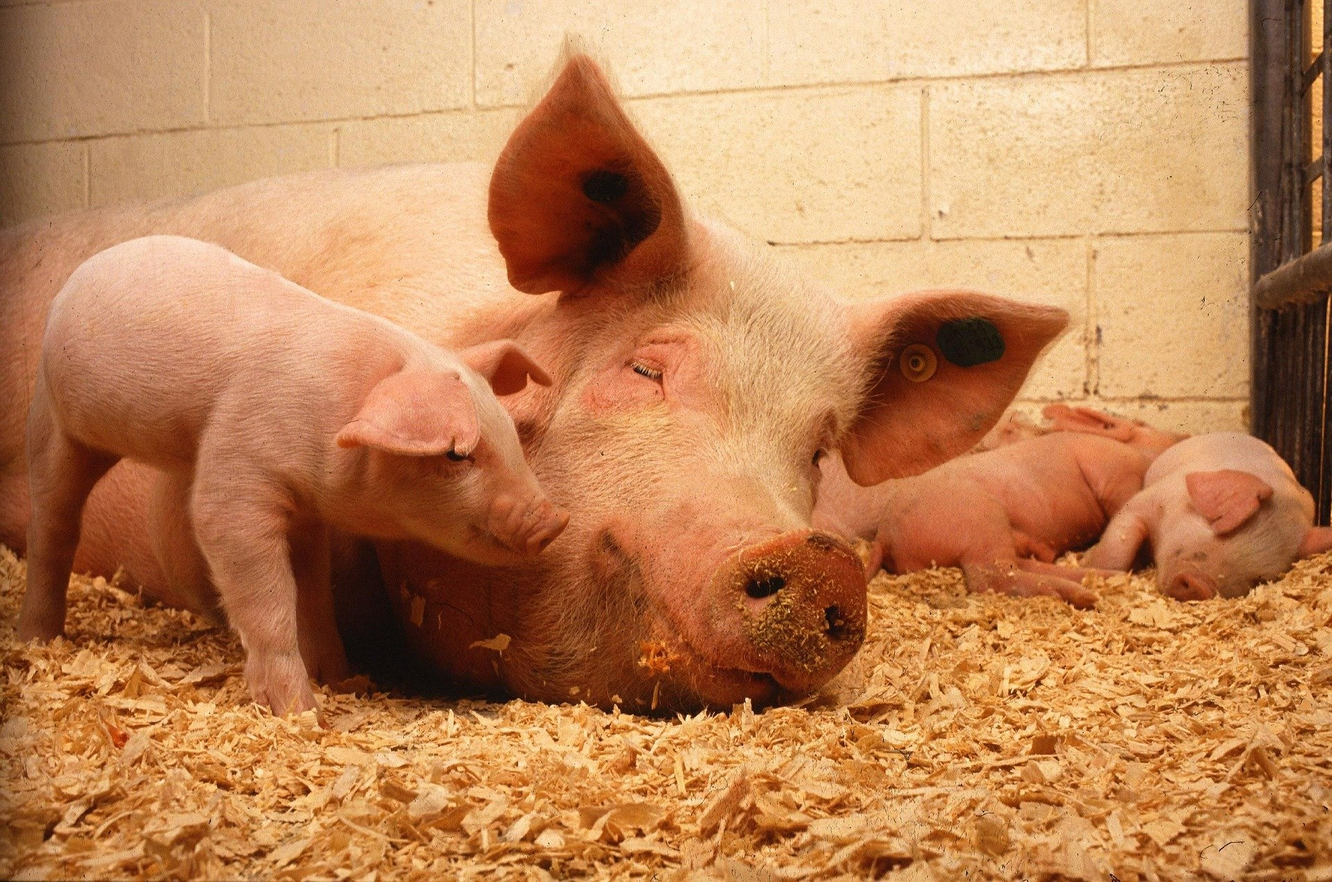
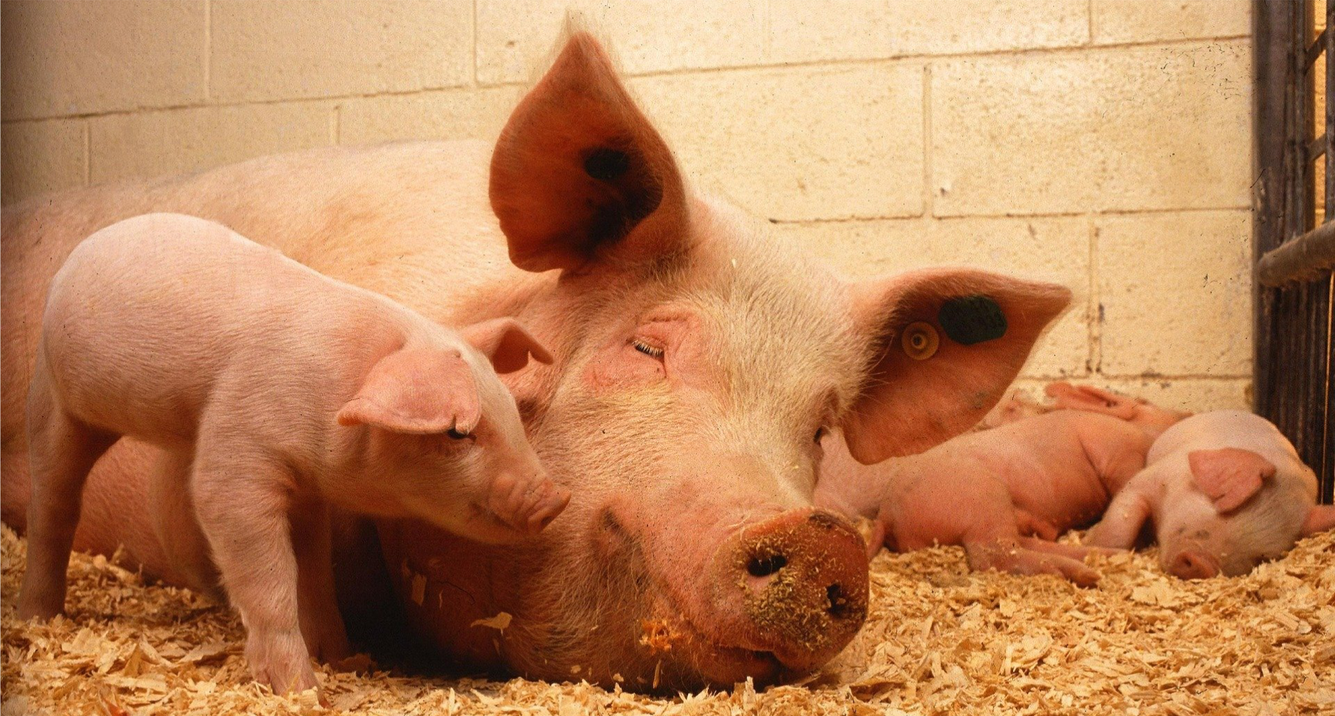
coisa

diff --git a/styles/css.css b/styles/css.css
@@ -11,7 +11,7 @@ body{
 }
 #corpao{
     color: white;
-    position: relative;
+    
     top: 220px;
     right: 15px;
     margin: 0% 35% 0% 35%;
@@ -22,7 +22,7 @@ body{
     border-radius: 10px;
 }
 .container {
-    position: relative;
+    
     margin: 0% 15% 0% 15%;
     padding: 1% 10% 0% 10%;
     letter-spacing: 1px;
@@ -273,6 +273,7 @@ div.col-home.b-left {
 }
 img.SUINO{
     width: 100%;  
+    height: auto;
     background-position: center center;
     background-repeat: no-repeat;
 }
@@ -287,10 +288,10 @@ div.background{
 }
 img.logo{  
     width: 13%;
-    margin: 3% 0% 0% 43%;
+    margin: 3% 0% 1% 43%;
 }
 h2.frase{
-    margin: 16% 0% 5% 28%;
+    margin: 8% 0% 5% 28%;
     font-size: 1.2em;
     color: white;
     font-family: 'Segoe UI', Tahoma, Geneva, Verdana, sans-serif;

diff --git a/index.php b/index.php
@@ -25,7 +25,7 @@ $db = mysqli_select_db($cx, "conexao");
 	<div class="background"> 
 		<img class="SUINO" src="src/suino.jpg" alt="">
 	</div>
-	<img class="logo"src="src/ícone.png" style="margin-bottom: -12%;">
+	<img class="logo"src="src/ícone.png" >
 	<div id="corpao">
 		
 		<h2> O que você gostaria de fazer?</h2>
